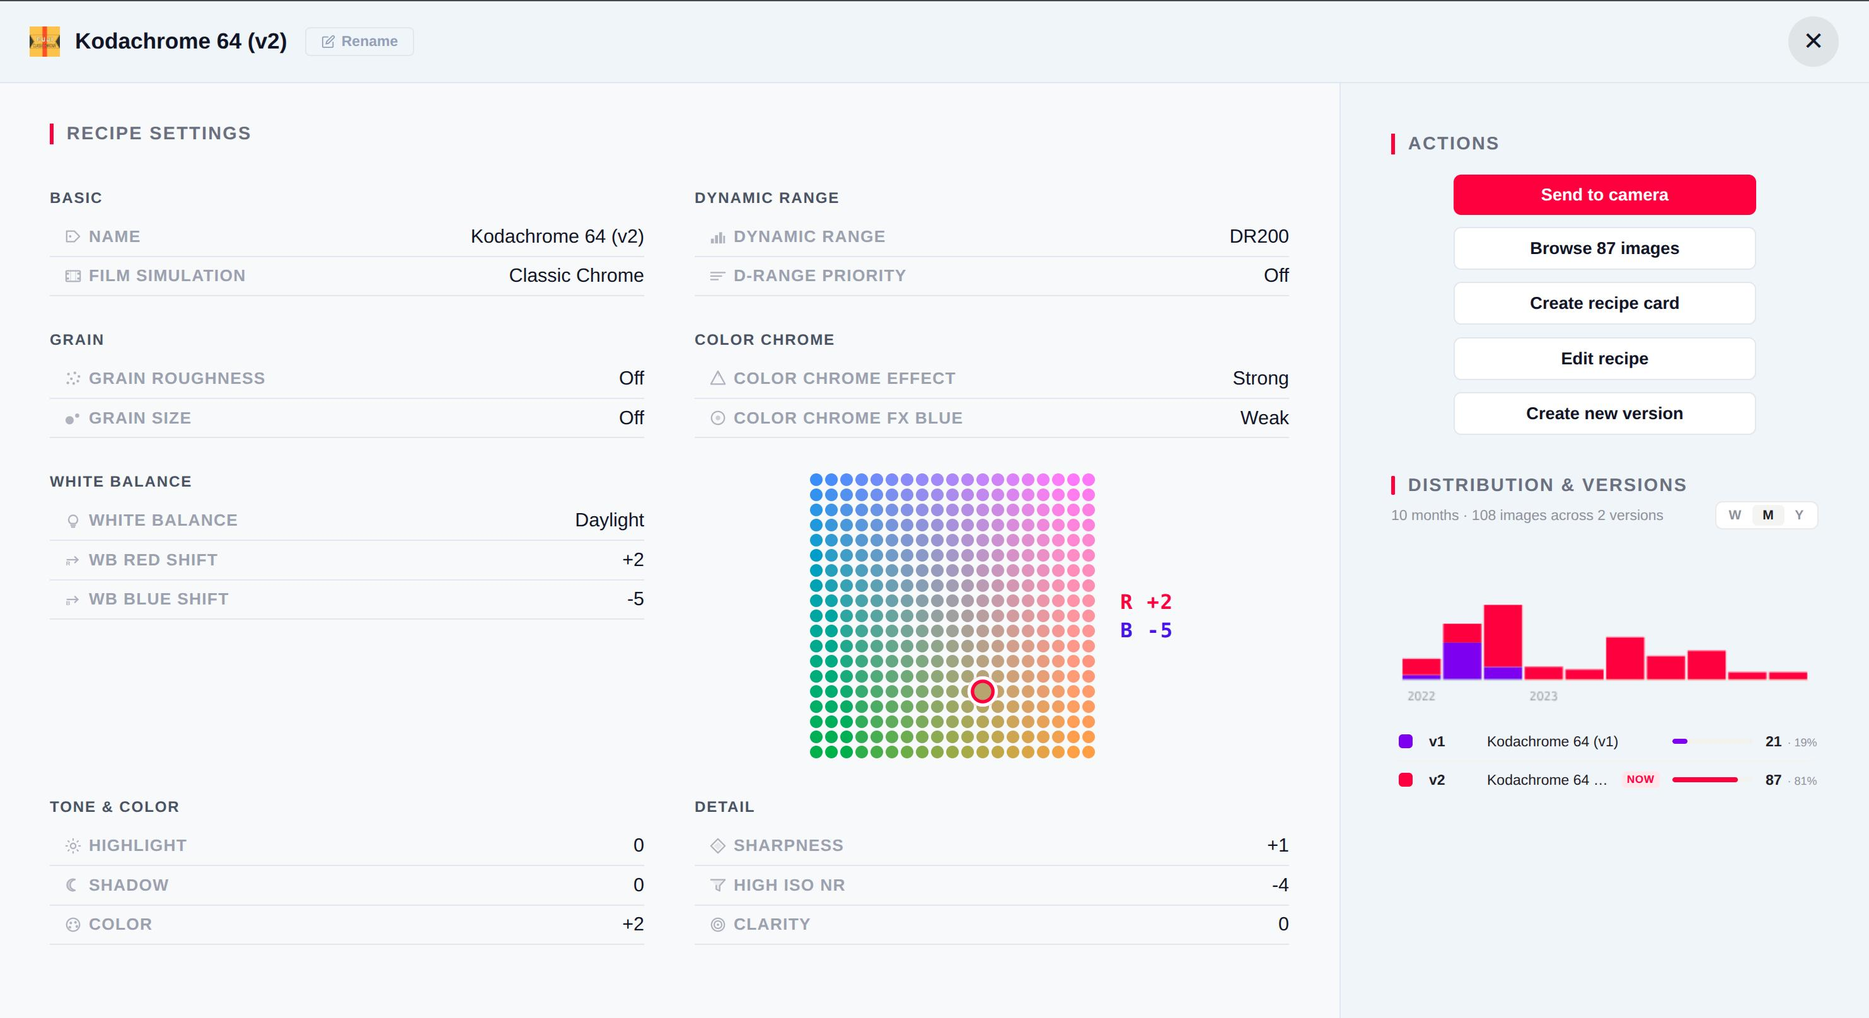
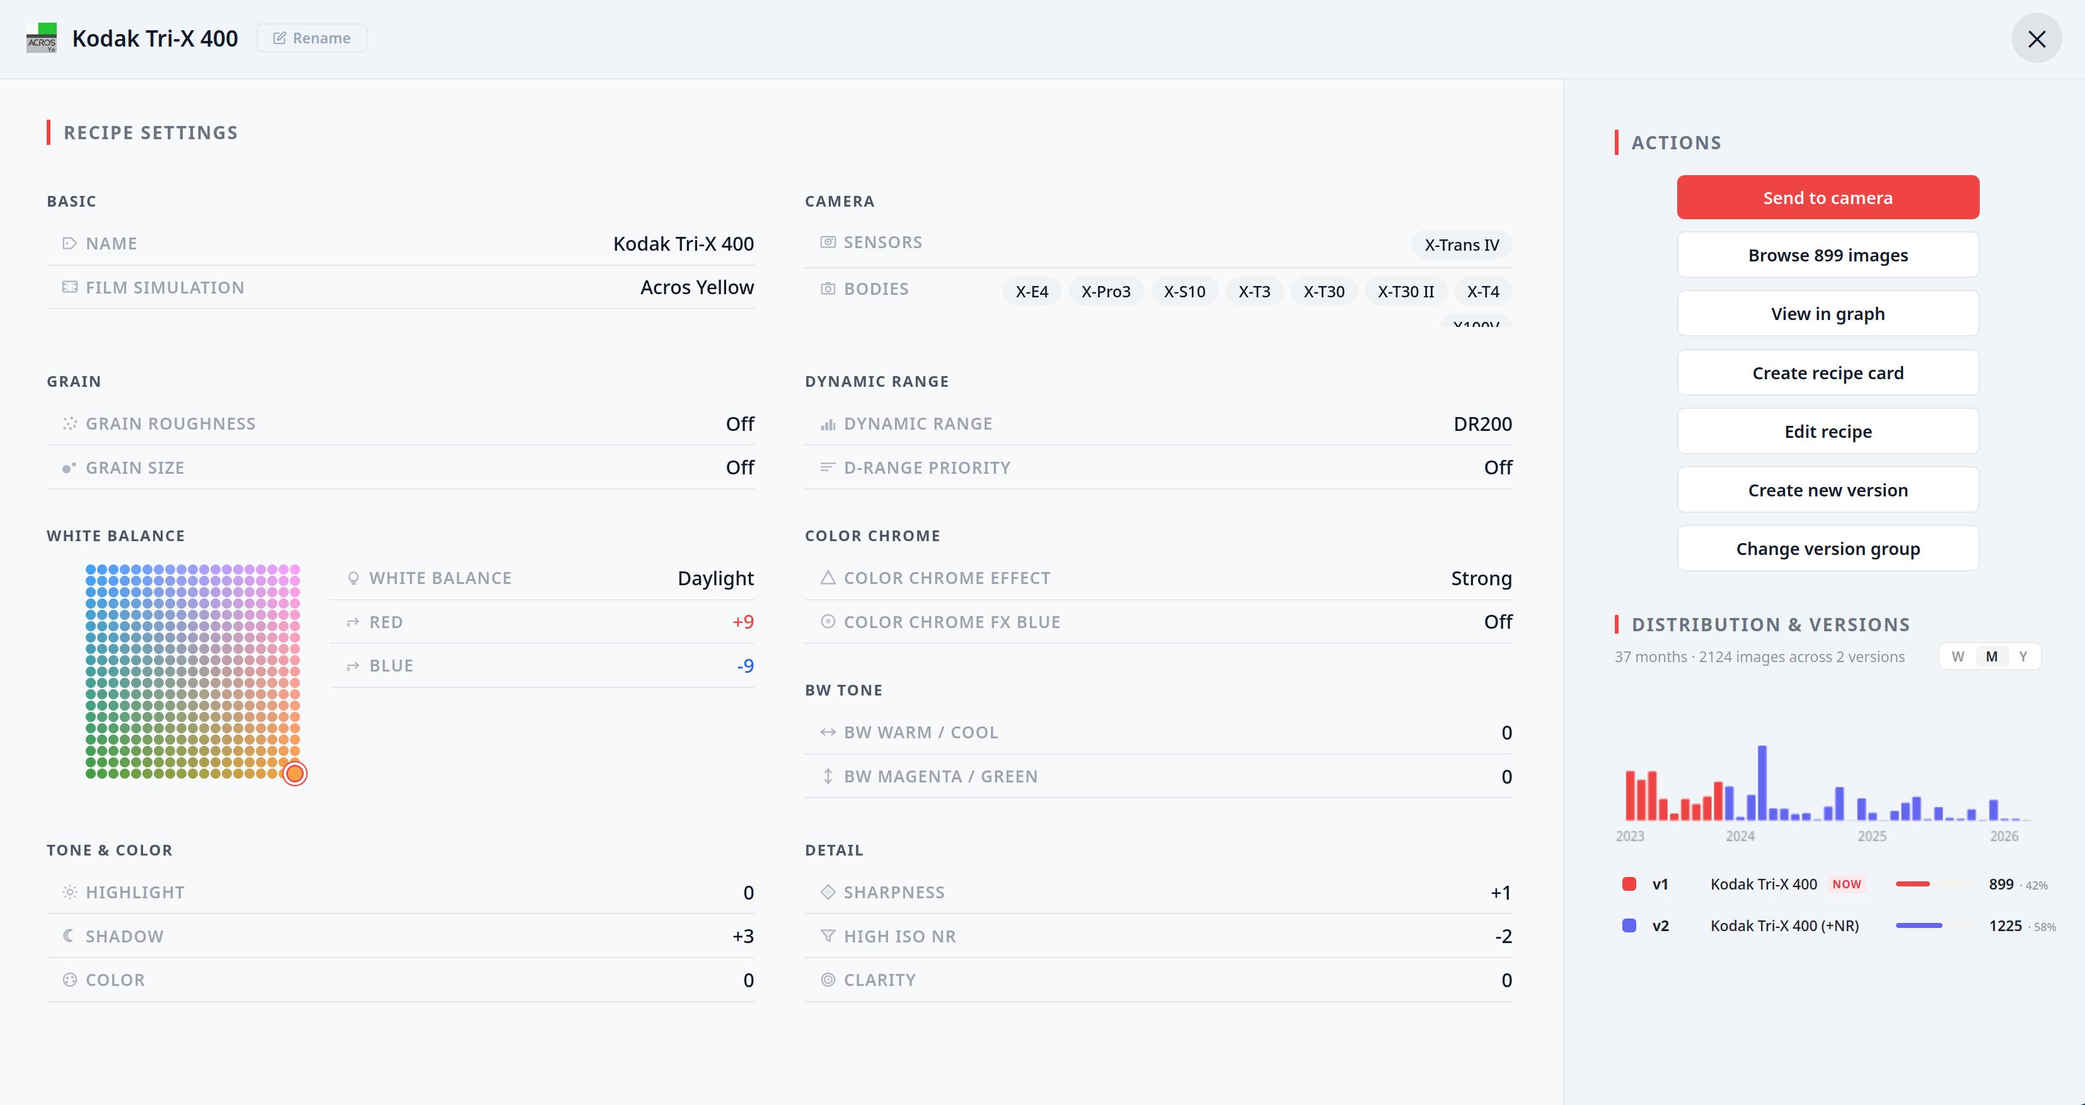
Expand and restructure the web interface docs
Rework docs/web_interface.md around the recipe workflow:

- Add a numbered table of contents and hierarchical section numbering
  (1, 1.1, 2.1.1, ...), with matching heading anchors.
- Move each section's screenshot directly below its title, and refresh the
  gallery / image-detail / recipe-detail / explorer screenshots.
- Split recipe import/create/delete into its own section, and restructure
  Recipe Detail around the key tools (send to camera, create recipe card,
  distribution & versions) as sub-sections.
- Document the three card designs with a single side-by-side example image,
  explain the sharing motivation, and note the open-format plan.
- Expand 'Send recipe to camera' with the connection steps and a short demo
  GIF; add the motivation and version-timeline walkthrough for
  distribution & versions, with its panel and change-group images.
- Rephrase throughout to avoid em dashes.

diff --git a/docs/web_interface.md b/docs/web_interface.md
@@ -1,25 +1,46 @@
 # Web Interface
 
-## Library
+## Contents
+
+- [1 Library](#1-library)
+  - [1.1 Managing folders](#11-managing-folders)
+  - [1.2 Automatic sync on startup](#12-automatic-sync-on-startup)
+- [2 Images](#2-images)
+  - [2.1 Gallery](#21-gallery)
+    - [2.1.1 Filtering](#211-filtering)
+    - [2.1.2 Bulk actions](#212-bulk-actions)
+  - [2.2 Image Detail](#22-image-detail)
+- [3 Recipes](#3-recipes)
+  - [3.1 Explorer](#31-explorer)
+  - [3.2 Importing, creating & deleting recipes](#32-importing-creating--deleting-recipes)
+  - [3.3 Recipe Detail](#33-recipe-detail)
+    - [3.3.1 Send recipe to camera](#331-send-recipe-to-camera)
+    - [3.3.2 Create recipe card](#332-create-recipe-card)
+    - [3.3.3 Distribution & versions](#333-distribution--versions)
+      - [3.3.3.1 Creating a new version](#3331-creating-a-new-version)
+      - [3.3.3.2 Grouping existing recipes](#3332-grouping-existing-recipes)
+  - [3.4 Graph](#34-graph)
+
+## 1 Library
 
 The Library page lets you register the folders on your filesystem where your Fujifilm JPEGs
 live. Filmcase uses these registrations to keep your catalog up to date automatically each
 time you start the app.
 
-### Managing folders
+### 1.1 Managing folders
 
 Each row in the library table shows a registered folder path together with the last time that
 folder was checked and the last time new images were found in it.
 
-- **Add a folder** — click _Add Folder_ and use the filesystem browser to navigate to the
+- **Add a folder**: click _Add Folder_ and use the filesystem browser to navigate to the
   directory you want to register. Subfolders are included automatically; you do not need to
   register them separately.
-- **Update path** — if you move a folder on disk, click _Update Path_ on its row and pick the
+- **Update path**: if you move a folder on disk, click _Update Path_ on its row and pick the
   new location. The folder's sync history is preserved.
-- **Remove** — click _Remove_ to unregister a folder. This removes it from the monitored list
+- **Remove**: click _Remove_ to unregister a folder. This removes it from the monitored list
   but does not delete any images from the catalog or from disk.
 
-### Automatic sync on startup
+### 1.2 Automatic sync on startup
 
 Every time you start the app with `make start`, Filmcase runs a sync pass across all
 registered library folders before the web server comes up. New images are imported
@@ -28,14 +49,16 @@ automatically; images already in the catalog are skipped. See
 
 ---
 
-## Images
+## 2 Images
 
-### Gallery
+### 2.1 Gallery
+
+![Images gallery](images/images_gallery.jpg)
 
 The main gallery shows all imported images as a scrollable grid. As you scroll down, more
 images load automatically.
 
-#### Filtering
+#### 2.1.1 Filtering
 
 A sidebar lets you narrow the gallery by recipe settings: film simulation, dynamic range,
 grain, white balance, and other creative fields. Filters update the grid without reloading
@@ -43,7 +66,7 @@ the page.
 
 Filtering is **faceted**: selecting a value in one field instantly updates the available
 choices in every other field to only show combinations that exist in your library. You can
-select **multiple values within the same field** (e.g. Provia and Velvia at once) — images
+select **multiple values within the same field** (e.g. Provia and Velvia at once), and images
 matching any of those values are shown. Values that have been selected but are no longer
 reachable given the other active filters are shown greyed-out; unchecking a conflicting
 filter brings them back.
@@ -58,20 +81,22 @@ A **Clear all filters** link at the top of the sidebar resets everything in one 
 You can also enable **Rating first** to sort the grid by rating (highest first), so your
 best-rated images always appear at the top.
 
-#### Bulk actions
+#### 2.1.2 Bulk actions
 
 The gallery supports **multi-select mode** for acting on several images at once. Click any
 image card's checkbox (or click a card while another is already selected) to enter selection
 mode, then open the _Actions_ menu to choose what to do with the selection.
 
-- **Set rating** — a modal shows how many images are selected and the same star widget used
+- **Set rating**: a modal shows how many images are selected and the same star widget used
   in the image detail view. Pick a rating (or the ✕ to clear it) and confirm to apply it to
   every selected image at once. The gallery reloads when you close the modal so the updated
   star counts appear on the cards.
 
 ---
 
-### Image Detail
+### 2.2 Image Detail
+
+![Image detail view](images/image_detail_view.jpeg)
 
 Clicking an image opens a full-resolution detail view with all of its EXIF information,
 including the complete recipe the camera had active at the time of shooting.
@@ -82,39 +107,43 @@ From the detail view you can:
   the gallery.
 - **Rate the image** using the star widget (0–5). Click a star to set that rating; click the
   clear button (✕) to reset it to 0.
-- **Name the recipe** — if the image's recipe has no name yet, a prompt appears inline.
-  Names are limited to 25 ASCII characters, matching the camera's own slot naming rules. See
-  [recipe_naming.md](recipe_naming.md) for more detail.
-- **Send the recipe to your camera** — once a recipe has a name, you can write it to one of
-  your camera's custom slots (C1–C7) over USB. The interface shows you what is already saved
-  in each slot so you can choose where to write.
-- **Set as recipe cover** — mark this image as the cover photo for its recipe, replacing
+- **View the recipe**: jump to the full recipe detail view for the recipe this image was
+  shot with.
+- **Set as recipe cover**: mark this image as the cover photo for its recipe, replacing
   whatever was shown before.
-
-![Image detail view](images/image_detail_view.jpeg)
 
 ---
 
-## Recipes
+## 3 Recipes
 
-### Explorer
+### 3.1 Explorer
+
+![Recipes explorer](images/recipes_explorer.jpg)
 
 The recipes explorer lets you browse and search your entire recipe collection in one place.
 You can filter by film simulation, dynamic range, grain, and other settings using the same
 faceted filtering available in the image gallery.
 
 Each recipe is shown with a cover image drawn from your library. The cover is
-**customizable** — you can pick any photo associated with that recipe to represent it.
+**customizable**: you can pick any photo associated with that recipe to represent it.
+
+---
+
+### 3.2 Importing, creating & deleting recipes
+
+![Importing recipes from cards](images/import_recipes_from_cards.jpeg)
 
 Recipes can be **imported** in two ways directly from the explorer:
 
-- **From a Fujifilm JPEG** — the app reads the recipe embedded in the file's EXIF data.
-- **From a recipe card** — upload a recipe card image (a QR code shared by another
+- **From a Fujifilm JPEG**: the app reads the recipe embedded in the file's EXIF data.
+- **From a recipe card**: upload a recipe card image (a QR code shared by another
   Fujifilm shooter) and the recipe is added to your library automatically.
 
 Alternatively, you can **create a recipe manually** using the _Create Recipe_ button.
-This opens a form where you can dial in every parameter — film simulation, tone, grain,
-white balance, and more — without needing a source image or card.
+This opens a form where you can dial in every parameter (film simulation, tone, grain,
+white balance, and more) without needing a source image or card.
+
+![Create recipe manually](images/create_recipe_manually.jpg)
 
 Recipes can be **deleted** using the multi-select mode. Click any recipe card's checkbox
 (or click a card while another is already selected) to enter selection mode, then open the
@@ -124,93 +153,136 @@ those recipes. Recipes that still have images associated to them cannot be delet
 reports these as failures and leaves them untouched. After a fully successful deletion the
 page reloads automatically when you close the modal.
 
-![Recipes explorer](images/recipes_explorer.jpg)
-
-![Create recipe manually](images/create_recipe_manually.jpg)
-
-![Importing recipes from cards](images/import_recipes_from_cards.jpeg)
-
 ---
 
-### Recipe Detail
-
-Opening a recipe shows all its settings at a glance. From this page you can:
-
-- **Set the recipe name** — limited to 25 ASCII characters, matching the camera's own slot
-  naming rules. See [recipe_naming.md](recipe_naming.md) for more detail.
-- **Edit the recipe** — an _Edit recipe_ button opens a form pre-populated with the current
-  settings. If the recipe has no images associated with it, all parameters can be changed. If
-  it already has images, only the name can be edited — camera settings are locked to preserve
-  the integrity of the historical shooting data tied to those images.
-- **Browse the recipe's images** — jump to the gallery filtered to photos shot with this
-  recipe.
-- **Send the recipe to your camera** — write the recipe to one of your camera's custom slots
-  (C1–C7) over USB. The interface shows what is already saved in each slot so you can choose
-  where to write.
-- **Create a recipe card** — generate a shareable card for the recipe that other Fujifilm
-  shooters can import into their own library. Every card embeds the full recipe as a
-  scannable QR code — the same size and encoding across all designs — alongside a
-  human-readable list of the settings, so the recipe survives the EXIF stripping that social
-  platforms apply. Colour and black-and-white recipes automatically show the relevant fields
-  (for example the BW tone fields for Acros/Monochrome sims, or `Color` for colour sims).
-
-  Three designs are available, selected from tabs in the creation modal:
-
-  - **Classic** — a square 1080×1080 card with a photo or gradient background, a translucent
-    settings panel, and a corner QR. Options let you choose full or short field labels, a
-    blurred or sharp background, and which side holds the info panel.
-  - **Aperture** — a portrait 1080×1920 (9:16, sized for Instagram Stories/Reels) card: a
-    blurred, darkened version of your photo behind a hero image, frosted-glass parameter
-    tiles, and a bottom "import" module with the logo and QR. The darkening gradient is
-    tunable via the `RECIPE_CARD_APERTURE_SCRIM_TOP_OPACITY` /
-    `RECIPE_CARD_APERTURE_SCRIM_BOTTOM_OPACITY` settings.
-  - **Contact Sheet** — a portrait 1080×1920 light "paper" spec-sheet listing every parameter
-    in two columns over a blurred photo frame.
-
-  The photo-centric designs (Aperture and Contact Sheet) are built around a real example
-  photo, so they require a background image; the gradient-background option is offered only
-  for Classic. See [ADR 012](ADRs/012-pluggable-card-designs.md) for the design architecture.
-
-![Recipe card creation](images/recipe_card_creation.jpeg)
-
-The **Aperture** (left) and **Contact Sheet** (right) designs:
-
-![Aperture recipe card](images/recipe_card_aperture.jpg) ![Contact Sheet recipe card](images/recipe_card_contact_sheet.jpg)
-
-- **Create a new version** — if the recipe already has images associated with it (and
-  therefore cannot be edited in place), a _Create new version_ button lets you fork it into a
-  tweaked copy. The new recipe is pre-populated with the current settings so you only need to
-  change what differs. Both recipes are linked in a version line, letting the app trace the
-  chronological evolution of a recipe over time. This is useful for seeing how a recipe has
-  been refined across different shoots.
-- **Distribution & Versions** — A panel in the recipe detail visualises how your shooting with this recipe is distributed
-  over time, broken down by version. A bar chart plots image counts per time bucket, with a **W / M / Y** toggle to switch the bucket size between week, month, and year.
+### 3.3 Recipe Detail
 
 ![Recipe detail view](images/recipe_detail_view.jpg)
 
-- **Change version group** — a _Change version group_ button moves the recipe out of its
-  current version line and into a different one. Clicking it opens a modal with two columns:
-  the left shows the current group's distribution chart and version list; the right shows a
-  live preview of what the destination group will look like after the recipe is inserted.
+The recipe detail view is the heart of the app. A **recipe** (the exact set of Fujifilm
+camera settings that produces a particular look) is the central concept everything else
+revolves around, and this page is where you manage one. It shows all of a recipe's settings at
+a glance and lets you **rename** it (25 ASCII characters, matching the camera's own slot
+naming rules; see [recipe_naming.md](recipe_naming.md)), **edit** its parameters, jump to the
+**images taken with it**, and **send it to your camera**.
 
-  To pick a destination, type any part of a recipe name in the search box. Results show
-  recipes from other version lines along with their current member count. Clicking a result
-  loads the preview on the right. A **Position** dropdown lets you choose exactly where in
-  the destination group the recipe will be placed (1 through N+1, where N is the current
-  member count); the preview updates immediately when you change it. Once you are satisfied,
-  click **Move recipe** to apply the change.
+Editing is guarded: if the recipe has no images associated with it, every parameter can be
+changed; once it has images, only the name is editable, so the camera settings stay faithful
+to the historical shooting data tied to those photos. When a recipe is locked this way, you
+can instead fork it into a new version (see [Distribution & versions](#333-distribution--versions)).
 
-  If the recipe was the only member of its original group, that group is deleted
-  automatically after the move. The recipe itself is unaffected — its images and history are
-  preserved.
+The most important tools on this page are described below.
+
+#### 3.3.1 Send recipe to camera
+
+![Sending a recipe to the camera](images/send_recipe_to_camera.gif)
+
+Loading recipes onto the camera is one of Filmcase's most compelling features: Fujifilm ships
+no official app that pushes recipes to a camera for this direct purpose, so this fills a real
+gap.
+
+It requires the camera to be connected to the computer over USB and set to the
+**USB RAW CONV./BACKUP RESTORE** mode. To connect the camera successfully:
+
+1. Set the camera to that mode in **Menu → Setup → Connection Settings → Connection Mode**.
+2. Turn the camera off.
+3. Connect the camera via USB.
+4. Turn the camera on, and it should boot straight into that mode.
+
+Once the camera is in that mode, clicking **Send to Camera** doubles as a connectivity check:
+the first thing the app does is read all of the C1–C7 slots to populate the slot-selection
+window. If the connection is healthy, every slot is shown along with the recipe currently
+stored in it; if it is not, an error is displayed instead.
+
+Once the slots load, you can be confident the recipe will push correctly. Select the slot you
+want the recipe to go to (replacing whatever is currently there), and the write takes a couple
+of seconds, depending on the recipe, the camera, and the cable.
+
+#### 3.3.2 Create recipe card
+
+![Recipe cards generated with the Aperture and Contact Sheet designs](images/recipe_card_designs.jpg)
+
+Filmcase runs entirely on your own machine, but recipes are meant to be shared, whether with
+other Filmcase users or the wider Fujifilm community. A **recipe card** is the tool for that:
+a plain JPEG you can post to any social platform or chat that shows the full recipe as a
+human-readable list **and** carries an encoded copy of it in a QR code that any QR reader can
+scan. Filmcase ships with a built-in importer that reads the QR straight back into your
+library, so whether your audience is another Filmcase user or just someone who wants to try a
+new look on their own camera, a card is an easy way to pass a recipe along.
+
+Because the recipe lives inside the image itself (both as text and in the QR), it survives the
+EXIF stripping that social platforms apply to uploads. The QR is the same size and encoding
+across every design, and colour and black-and-white recipes automatically show the relevant
+fields (for example the BW tone fields for Acros/Monochrome sims, or `Color` for colour sims).
+
+> **Note:** the QR encodes a plain, non-obfuscated JSON specification of the recipe. An open
+> format for recipe transfer is in the works.
+
+Three designs are available, selected from tabs in the creation modal:
+
+- **Classic**: a square 1080×1080 card with a photo or gradient background, a translucent
+  settings panel, and a corner QR. Options let you choose full or short field labels, a
+  blurred or sharp background, and which side holds the info panel.
+- **Aperture**: a portrait 1080×1920 (9:16, sized for Instagram Stories/Reels) card: a
+  blurred, darkened version of your photo behind a hero image, frosted-glass parameter tiles,
+  and a bottom "import" module with the logo and QR. The darkening gradient is tunable via the
+  `RECIPE_CARD_APERTURE_SCRIM_TOP_OPACITY` / `RECIPE_CARD_APERTURE_SCRIM_BOTTOM_OPACITY`
+  settings.
+- **Contact Sheet**: a portrait 1080×1920 light "paper" spec-sheet listing every parameter in
+  two columns over a blurred photo frame.
+
+The photo-centric designs (Aperture and Contact Sheet) are built around a real example photo,
+so they require a background image; the gradient-background option is offered only for Classic.
+See [ADR 012](ADRs/012-pluggable-card-designs.md) for the design architecture.
+
+![Recipe card creation](images/recipe_card_creation.jpeg)
+
+#### 3.3.3 Distribution & versions
+
+![Distribution and versions panel](images/distribution_and_versions.jpeg)
+
+Finding a recipe online or dialing in your own is only the start of getting to know it. As you
+shoot with a recipe you often discover parameters worth tweaking to move it closer to the look
+you are after. Other times the original carries settings that are not to your taste: you might
+prefer to turn grain off while keeping everything else the same, or drop clarity back to 0 to
+avoid the shutter delay it adds when operating the camera. Recipes, in other words, evolve over
+time, and it is useful to track that history by grouping related recipes into **version
+timelines**.
+
+Filmcase has this built in. When you first create or import a recipe it starts its own
+dedicated timeline. From the recipe detail view you can add **new versions** of it, and you can
+also **group recipes that already exist** so they share one timeline.
+
+Finally, a panel visualises how your shooting with this recipe is distributed over time, broken
+down by version: a bar chart plots image counts per time bucket, with a **W / M / Y** toggle to
+switch the bucket size between week, month, and year.
+
+##### 3.3.3.1 Creating a new version
+
+If a recipe is locked (because it already has images), a _Create new version_ button forks it
+into a tweaked copy, pre-populated with the current settings so you only change what differs.
+Both recipes stay linked in the same timeline, letting the app trace how a recipe has been
+refined across shoots.
+
+##### 3.3.3.2 Grouping existing recipes
 
 ![Change a recipe's group](images/change_version_group.jpg)
 
+To bring separate recipes together, a _Change version group_ button moves the recipe out of its
+current timeline and into a different one. It opens a modal with two columns: the left shows the
+current timeline's distribution chart and version list; the right shows a live preview of the
+destination timeline after the recipe is inserted. Type any part of a recipe name to search for
+a destination; results list recipes from other timelines with their member count. A
+**Position** dropdown chooses exactly where the recipe lands (1 through N+1, where N is the
+current member count), and the preview updates as you change it. Click **Move recipe** to apply.
+If the recipe was the only member of its original timeline, that timeline is deleted
+automatically; the recipe's own images and history are preserved.
+
 ---
 
-### Graph
+### 3.4 Graph
 
-Each recipe has a visual graph showing how it relates to your other recipes — which ones are
+Each recipe has a visual graph showing how it relates to your other recipes: which ones are
 close, how many settings differ between them, and how you can trace the path from one to
 another. See [Recipe Graphs](recipe_graphs.md) for a full explanation of the graph views and
 what you can do from them.
